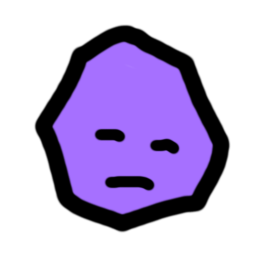
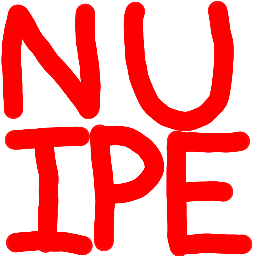
Bleed no longer changes the HP color, which I prefer as it is not an end of turn DOT
Join the Choir no longer gives Refrain 1 to a card in the user's hand, only teammates, as intended

New missing icon for powers
New art for Blooded Tithe (relic), Dominion (card) and Dominion (power)

Valkyrie now shows up in the characters stat page

diff --git a/TheValkyrieCode/Patches/StatsPagePatch.cs b/TheValkyrieCode/Patches/StatsPagePatch.cs
@@ -1,0 +1,24 @@
+using System.Reflection;
+using System.Reflection.Emit;
+using BaseLib.Utils.Patching;
+using HarmonyLib;
+using MegaCrit.Sts2.Core.Localization;
+using MegaCrit.Sts2.Core.Models;
+using MegaCrit.Sts2.Core.Models.Events;
+using MegaCrit.Sts2.Core.Nodes.Screens.Bestiary;
+using MegaCrit.Sts2.Core.Nodes.Screens.StatsScreen;
+using MegaCrit.Sts2.Core.Saves;
+using TheValkyrie.TheValkyrieCode.Character;
+
+namespace TheValkyrie.TheValkyrieCode.Patches;
+
+[HarmonyPatch(typeof(NGeneralStatsGrid), "LoadStats")]
+public class NGeneralStatsGridPatch
+{
+    [HarmonyPostfix]
+    // ReSharper disable once InconsistentNaming
+    public static void Postfix(NGeneralStatsGrid __instance)
+    {
+        __instance.CreateCharacterSection(SaveManager.Instance.Progress, ModelDb.Character<Character.TheValkyrie>().Id);
+    }
+}

diff --git a/TheValkyrieCode/Cards/Rare/JoinTheChoir.cs b/TheValkyrieCode/Cards/Rare/JoinTheChoir.cs
@@ -32,7 +32,7 @@ public class JoinTheChoir : TheValkyrieCard
         await CreatureCmd.TriggerAnim(Owner.Creature, "Cast", Owner.Character.CastAnimDelay);
         
         EnchantmentModel enchantment = ModelDb.Enchantment<Refrain>();
-        foreach (Creature creature in CombatState.GetTeammatesOf(Owner.Creature).Where(c => c.IsAlive && c.IsPlayer))
+        foreach (Creature creature in CombatState.GetTeammatesOf(Owner.Creature).Where(c => c.IsAlive && c.IsPlayer && c!= Owner.Creature))
         {
             Player teammate = creature.Player ?? throw new InvalidOperationException();
             if (!PileType.Hand.GetPile(teammate).Cards.Where(enchantment.CanEnchant).Any())

diff --git a/TheValkyrieCode/Powers/BleedPower.cs b/TheValkyrieCode/Powers/BleedPower.cs
@@ -36,7 +36,7 @@ public sealed class BleedPower : TheValkyriePower, IHasSecondAmount
 
     public override IEnumerable<HealthBarForecastSegment> GetHealthBarForecastSegments(HealthBarForecastContext context)
     {
-        return [new HealthBarForecastSegment(Amount, Color.FromHtml("#890000"), HealthBarForecastDirection.FromRight)];
+        return [new HealthBarForecastSegment(Amount, Color.FromHtml("#890000"), HealthBarForecastDirection.FromRight, 0, null, AffectsHpLabel:false)];
     }
     
     public override async Task AfterPowerAmountChanged(PlayerChoiceContext choiceContext, PowerModel power, decimal amount, Creature? applier, CardModel? cardSource)